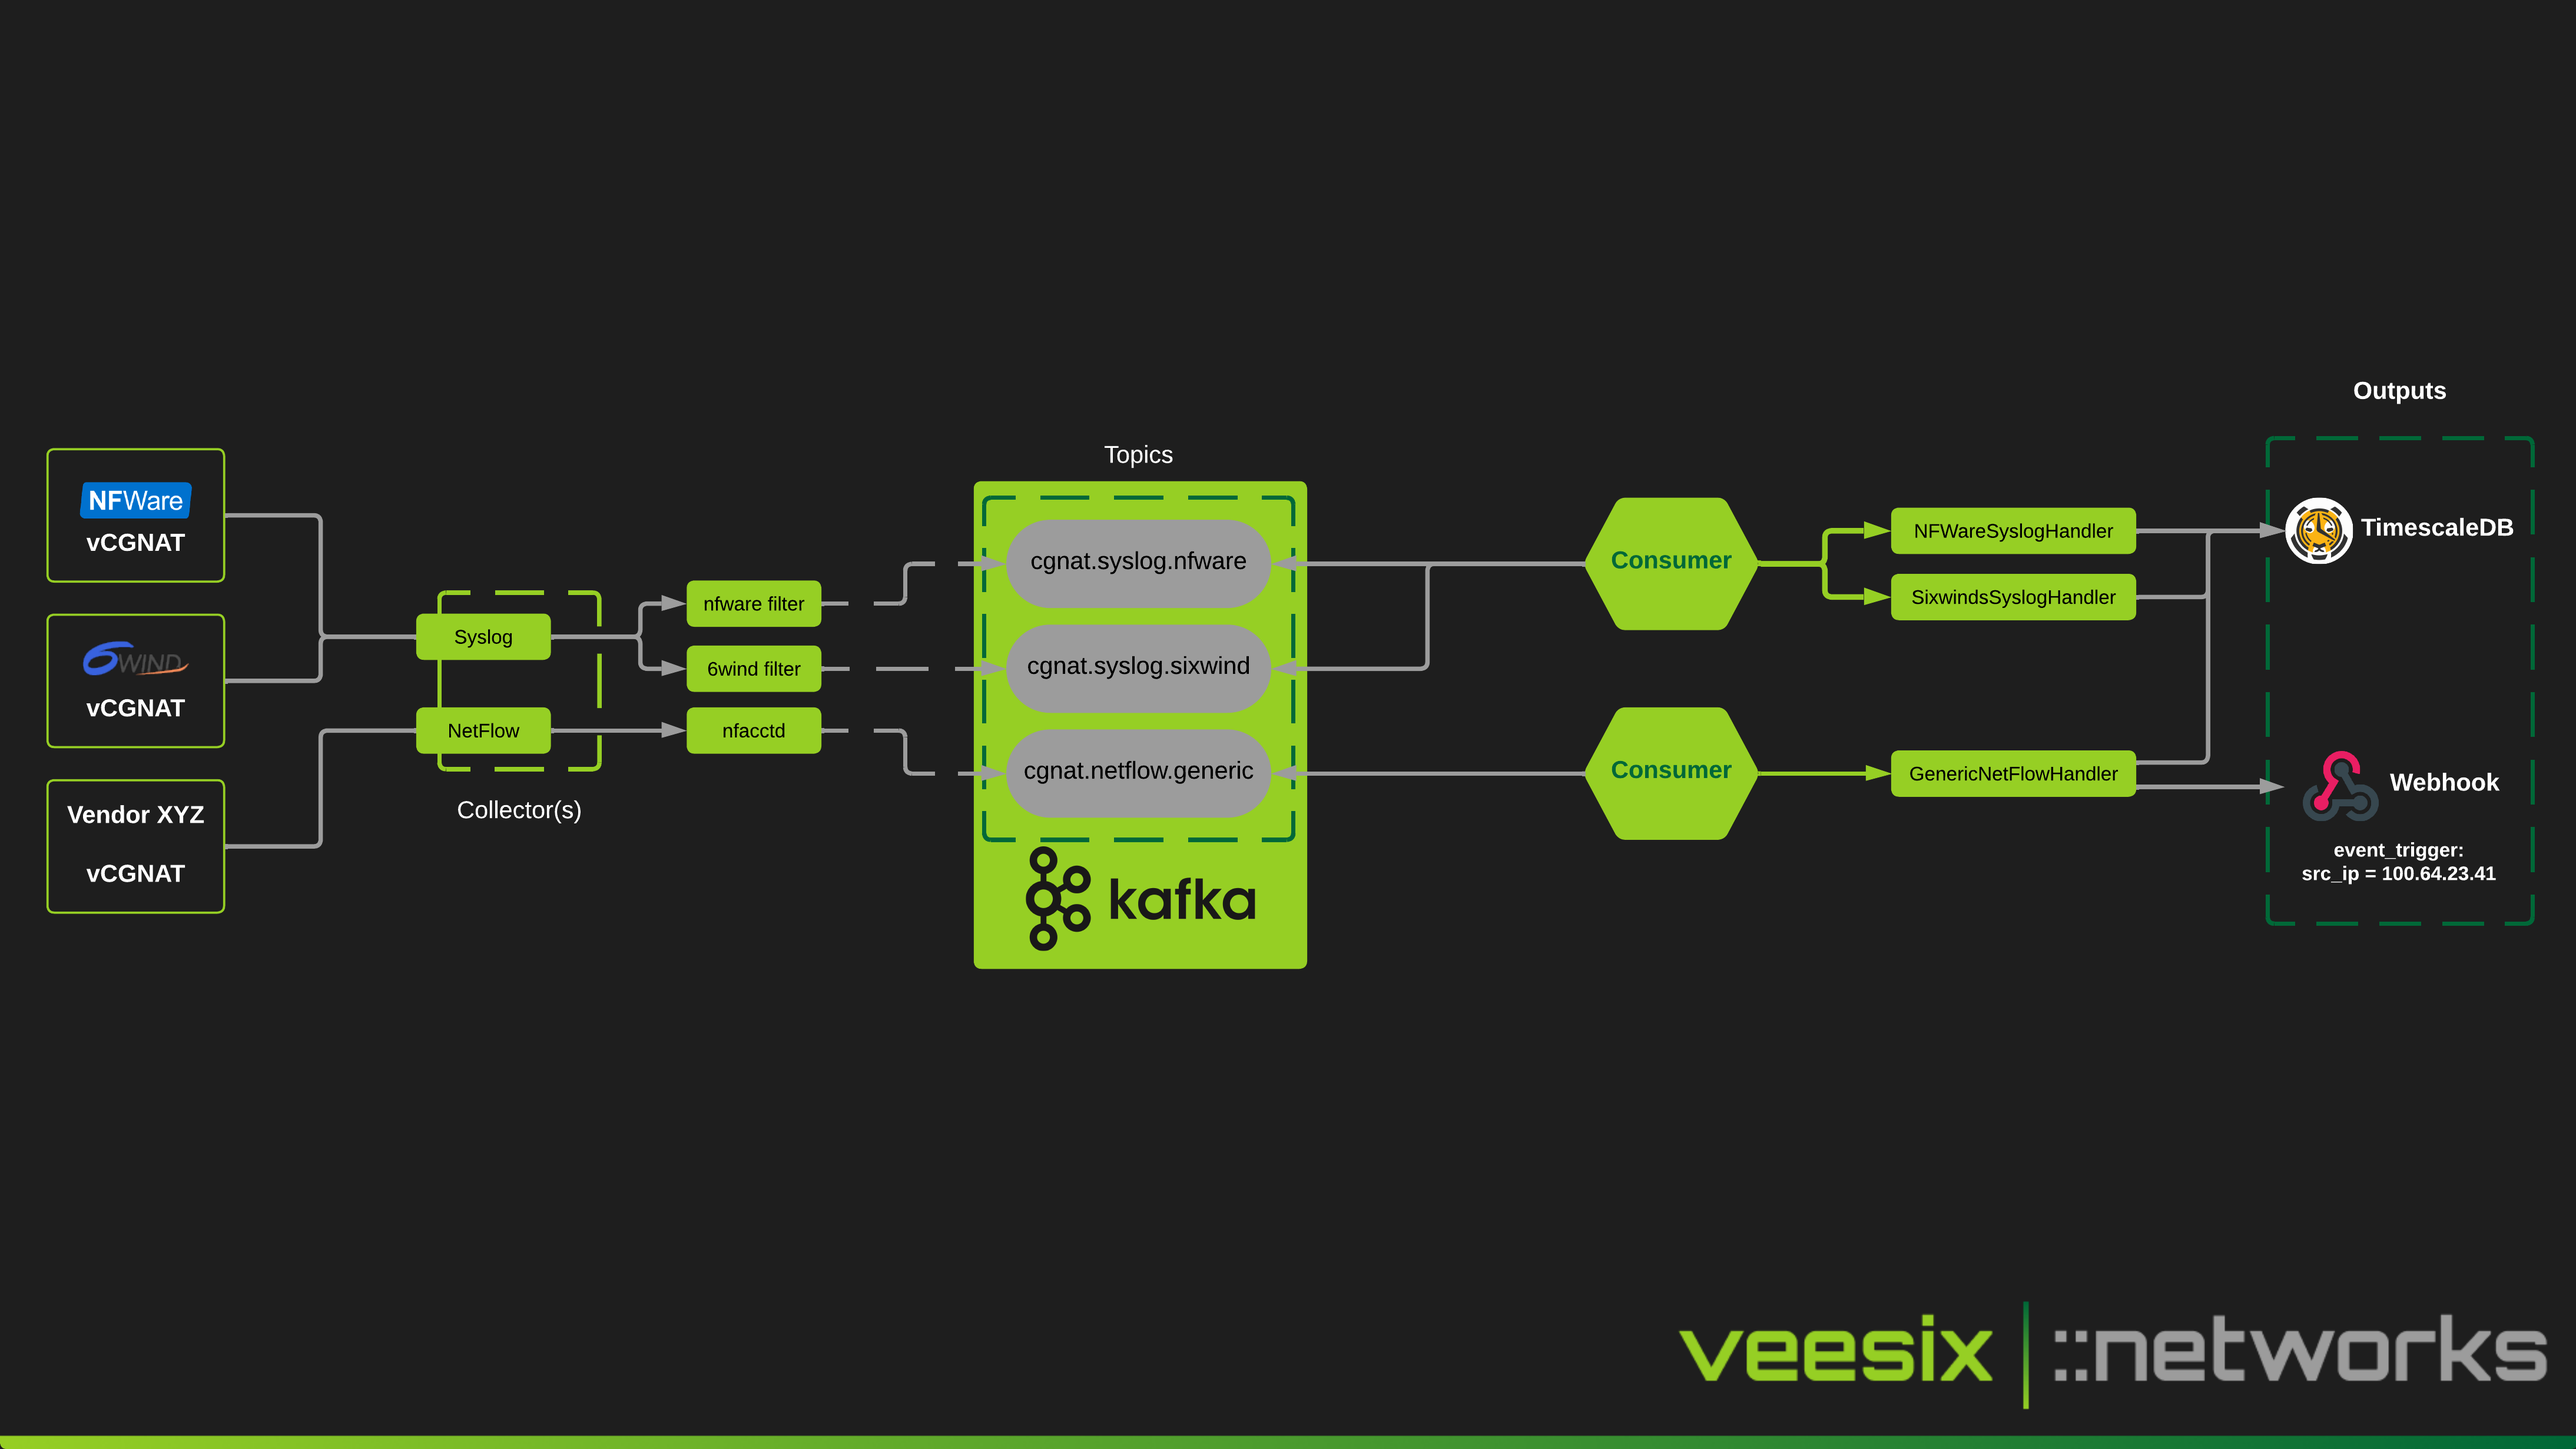
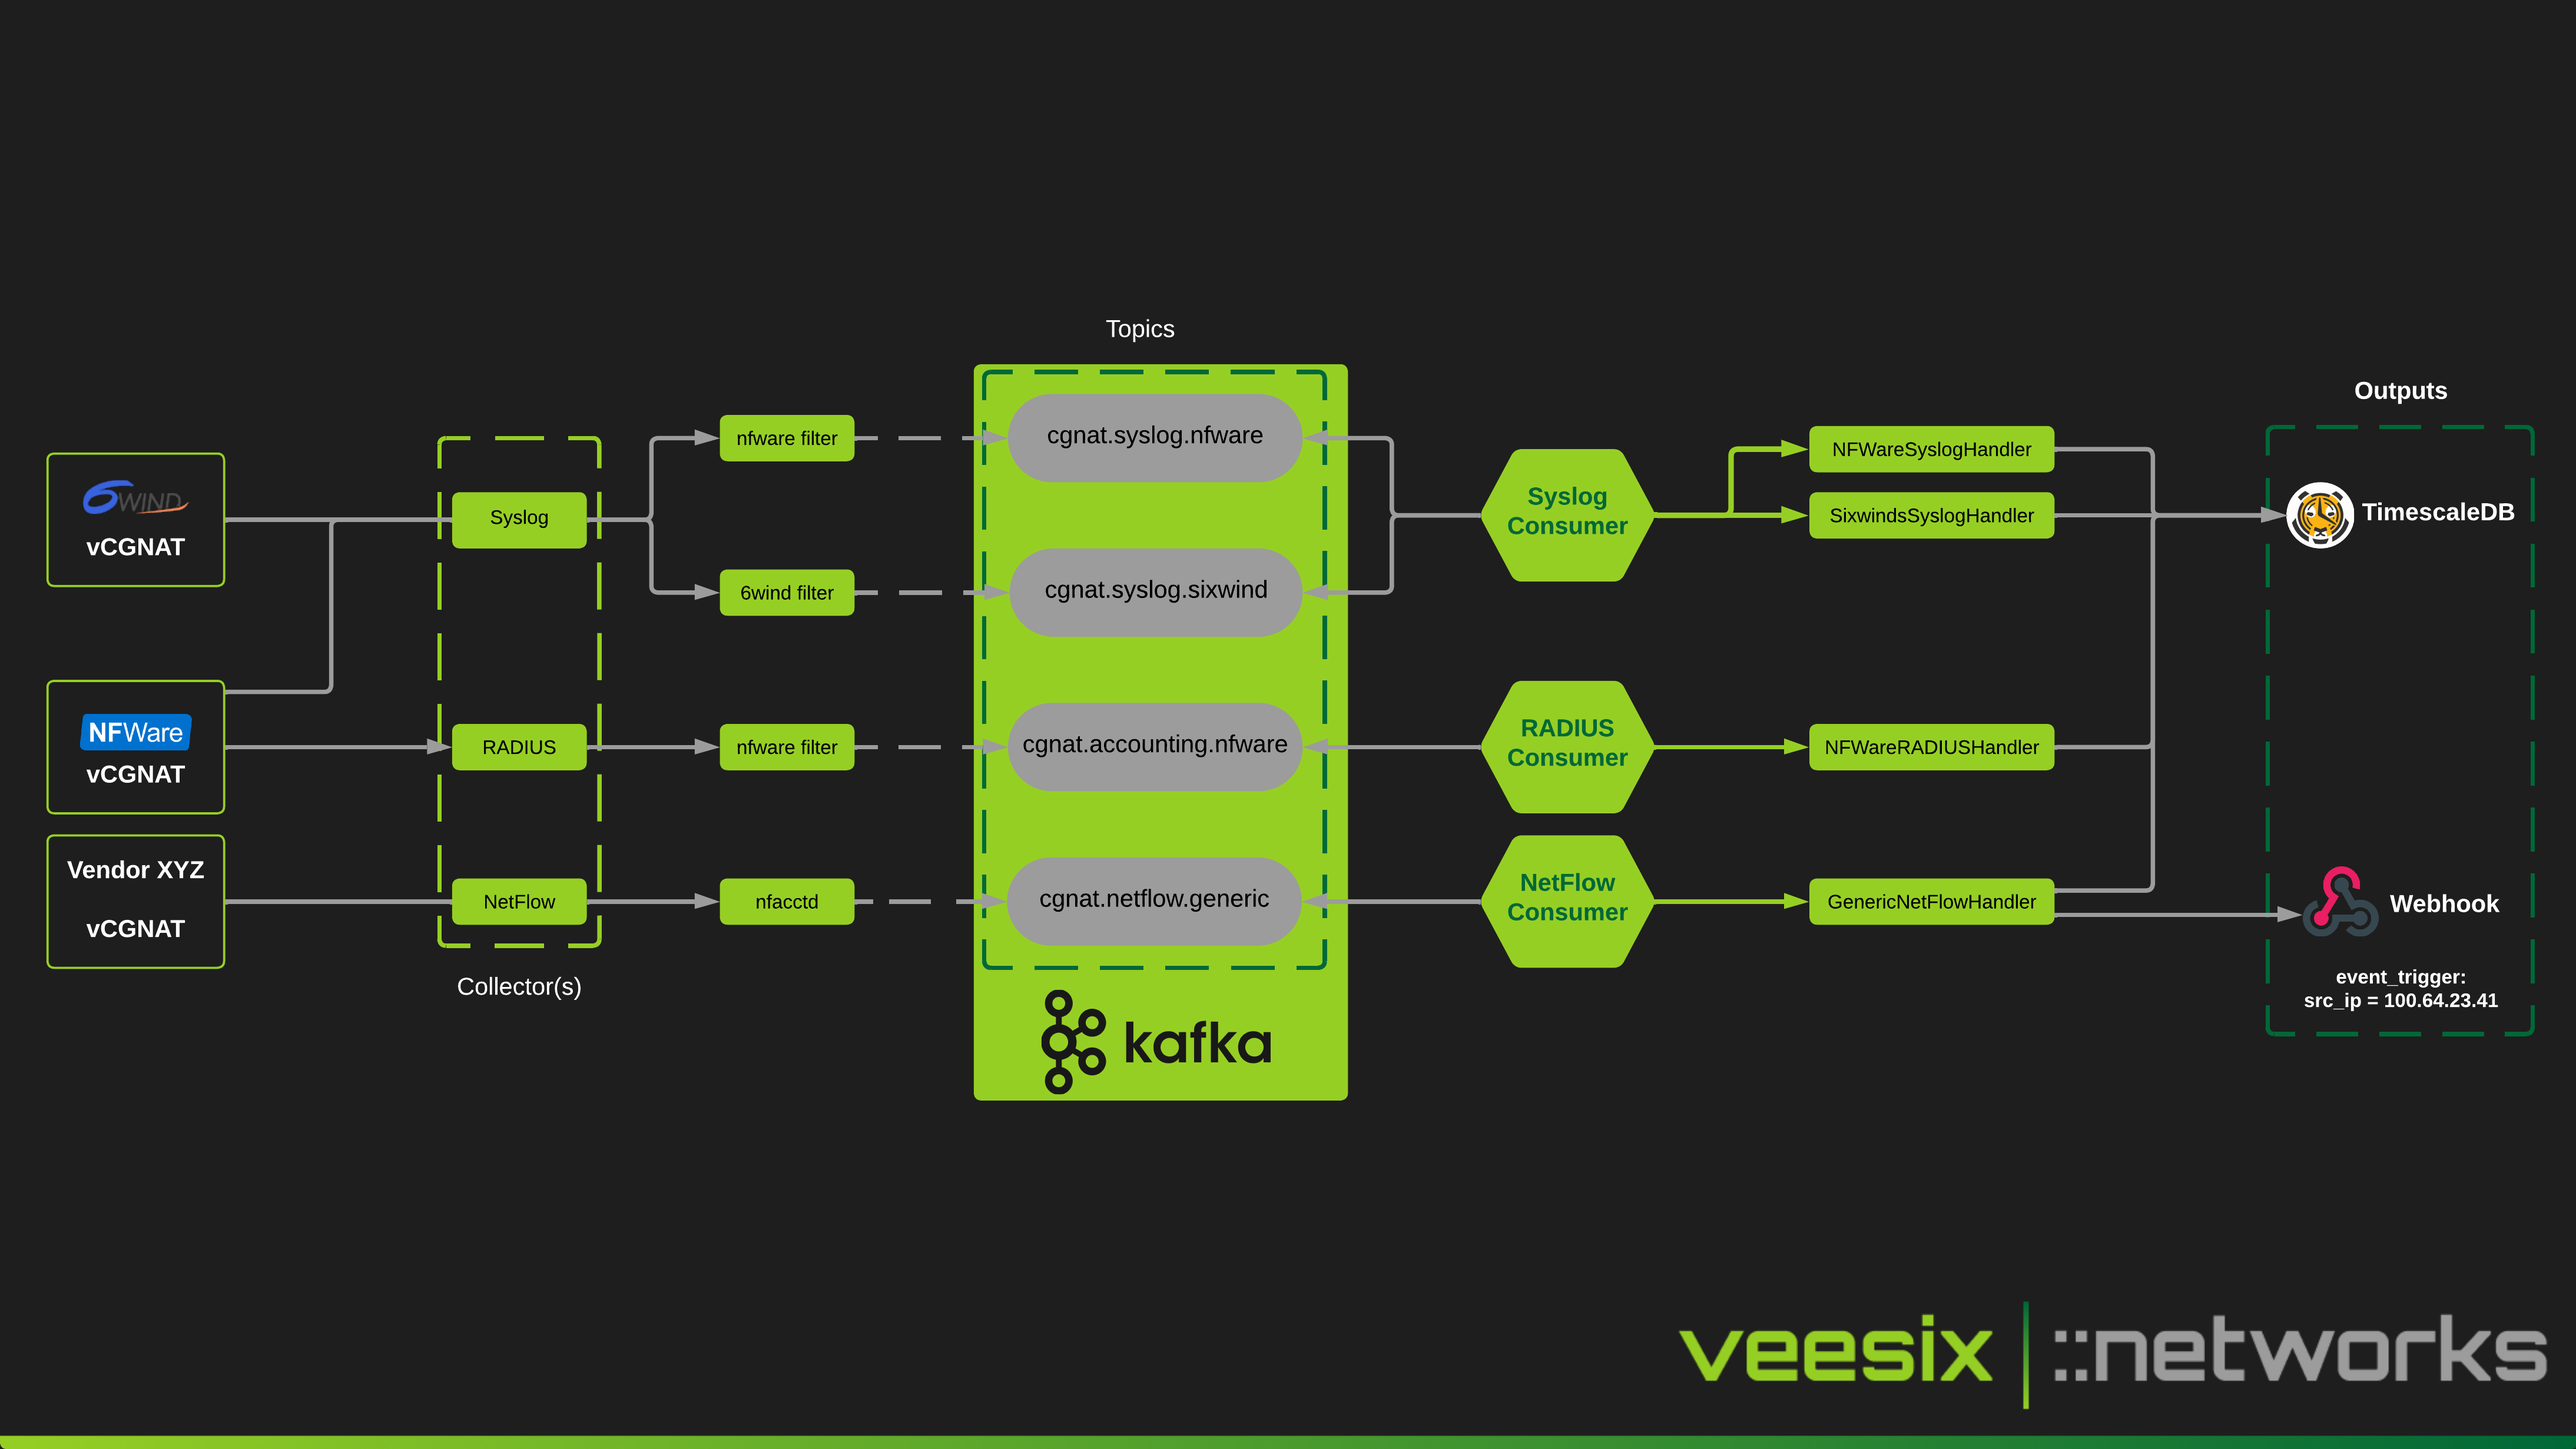
Added radius collector and updated documentation

Changed region(s): [[0.0311, 0.2161, 0.9947, 0.7717], [0.2487, 0.2778, 0.3419, 0.3396], [0.9015, 0.2778, 0.9637, 0.3087]]

diff --git a/producer/radius/python3/kafka_producer.py b/producer/radius/python3/kafka_producer.py
@@ -35,11 +35,14 @@ def preacct(p):
 """
 
 
-def accounting(p):
+def accounting(p: dict):
     print("*** accounting ***")
-    accounting_attributes = transform_tuple(p)
+
+    request = p["request"]
+    config = transform_tuple(p["config"])
+    accounting_attributes = transform_tuple(request)
     producer.produce(
-        "cgnat.radius.accounting",
+        config.get("VeesixNetworks-CGN-EC-Kafka-Topic", "cgnat.accounting.generic"),
         value=json.dumps(accounting_attributes).encode("UTF-8"),
     )
     radiusd.radlog(radiusd.L_DBG, str(accounting_attributes))

diff --git a/README.md b/README.md
@@ -10,7 +10,8 @@ Here are some key features of this project:
 - Up to <em>*</em>90% data compression compared to other DIY solutions.
 - Ability to add a new vendor within minutes.
 - Flexible outputs so you can preprocess CGNAT events and ship to external systems.
-- Syslog and NetFlow collectors with multi-vendor support out of the box.
+- Syslog, NetFlow and RADIUS Accounting collectors with multi-vendor support out of the box.
+
 
 ![Architecture Overview](docs/img/veesix_networks_cgn_logging.png)
 
@@ -66,13 +67,11 @@ If you would like a quote then please email us at [cgn-support@veesix-networks.c
 
 | Vendor      | Full / Partial | Syslog  | NetFlow | RADIUS |
 | ----------- | ----- | ------------------------------------ | ---- | ---- |
-| NFWare       | Full | :white_check_mark: | :white_check_mark: | * :white_check_mark: | 
+| NFWare       | Full | :white_check_mark: | :white_check_mark: | :white_check_mark: | 
 | 6Wind       | Full | :white_check_mark: |
 | F5 BigIP   | Partial | :white_check_mark:  |
 | Juniper JunOS | Partial | :white_check_mark:  |
 | A10 vThunder |  Partial | :white_check_mark: |
-
-<em>*</em>RADIUS Accounting collector is still being worked on to allow generic implementation using FreeRADIUS as the RADIUS server with python3 module, however there is currently a working solution for NFWare only.
 
 ## License
 

diff --git a/docs/index.md b/docs/index.md
@@ -11,7 +11,7 @@ Here are some key features of this project:
 - Up to <em>*</em>90% data compression compared to other DIY solutions.
 - Ability to add a new vendor within minutes.
 - Flexible outputs so you can preprocess CGNAT events and ship to external systems.
-- Syslog and NetFlow collectors with multi-vendor support out of the box.
+- Syslog, NetFlow and RADIUS Accounting collectors with multi-vendor support out of the box.
 
 ![Basic Architecture](img/veesix_networks_cgn_logging.png)
 
@@ -62,13 +62,11 @@ If you would like a quote then please email us at [cgn-support@veesix-networks.c
 
 | Vendor      | Full / Partial | Syslog  | NetFlow | RADIUS |
 | ----------- | ----- | ------------------------------------ | ---- | ---- |
-| NFWare       | Full | :material-check: | :material-check: | *:material-check: | 
+| NFWare       | Full | :material-check: | :material-check: | :material-check: | 
 | 6Wind       | Full | :material-check: |
 | F5 BigIP   | Partial | :material-check:  |
 | Juniper JunOS | Partial | :material-check:  |
 | A10 vThunder |  Partial | :material-check: |
-
-<em>*</em>RADIUS Accounting collector is still being worked on to allow generic implementation using FreeRADIUS as the RADIUS server with python3 module, however there is currently a working solution for NFWare only.
 
 ## License
 

diff --git a/docs/architecture/collectors.md b/docs/architecture/collectors.md
@@ -1,9 +1,10 @@
 The collector is what "collects" the data and sends it (produces the event) to Kafka. Kafka is essentially a central location for data to enter at an extremely fast pace, and then be streamed to applications which will process the data, normalize it and transform it.
 
-These collectors are typically hand-picked for speed to perform minimal pre-processing on the event (eg. a subscriber port allocation or a new session), currently there are 2 supported collectors out of the box:
+These collectors are typically hand-picked for speed to perform minimal pre-processing on the event (eg. a subscriber port allocation or a new session), currently there are 3 supported collectors out of the box:
 
 - Syslog
 - NetFlow (v9)
+- RADIUS Accounting
 
 ## Syslog
 
@@ -12,3 +13,7 @@ These collectors are typically hand-picked for speed to perform minimal pre-proc
 ## NetFlow
 
 ![NetFlow Collector Architecture](../img/collector_netflow.png)
+
+## RADIUS Accounting
+
+![RADIUS Accounting Collector Architecture](../img/collector_radius_accounting.png)

diff --git a/docs/recommended_setup.md b/docs/recommended_setup.md
@@ -11,7 +11,7 @@ Here are our recommendations for production to run cgn-ec.
 
 ## Collectors
 
-A collector is a container which implements the various logic to pass messages into Kafka so they can be normalized by a consumer. Collectors should be as simple as possible, take a look at the syslog-ng and nfacctd (NetFlow) collectors. Here are some basic scaling recommendations:
+A collector is a container which implements the various logic to pass messages into Kafka so they can be normalized by a consumer. Collectors should be as simple as possible, take a look at the syslog-ng, freeradius (RADIUS Accounting) and nfacctd (NetFlow) collectors. Here are some basic scaling recommendations:
 
 - Load Balancer infront of multiple collectors to scale out ingestion.
 - Separate Collector per collection method, eg. 1 syslog collector and 1 netflow collector. (You can install both on the same VM if you don't want to use containers but this is not a supported method).

diff --git a/docs/architecture/timescale_models.md b/docs/architecture/timescale_models.md
@@ -2,7 +2,7 @@ TimescaleDB is our preferred Output of choice when storing your CGNAT logs in a 
 
 A lot of effort has gone into the data modelling and figuring out the right compression policies to get the most out of the underlying storage.
 
-You can view the data models [here on the GitHub repository](https://github.com/veesix-networks/cgn-ec/blob/main/consumer/consumer/models.py)
+You can view the data models [here on the GitHub repository](https://github.com/veesix-networks/cgn-ec-models/blob/main/cgn_ec_models/sqlmodel.py)
 
 These data models can also be used in other databases but you will need to translate the model to the relevant format, eg. using the influx line protocol when using influxdb.
 
